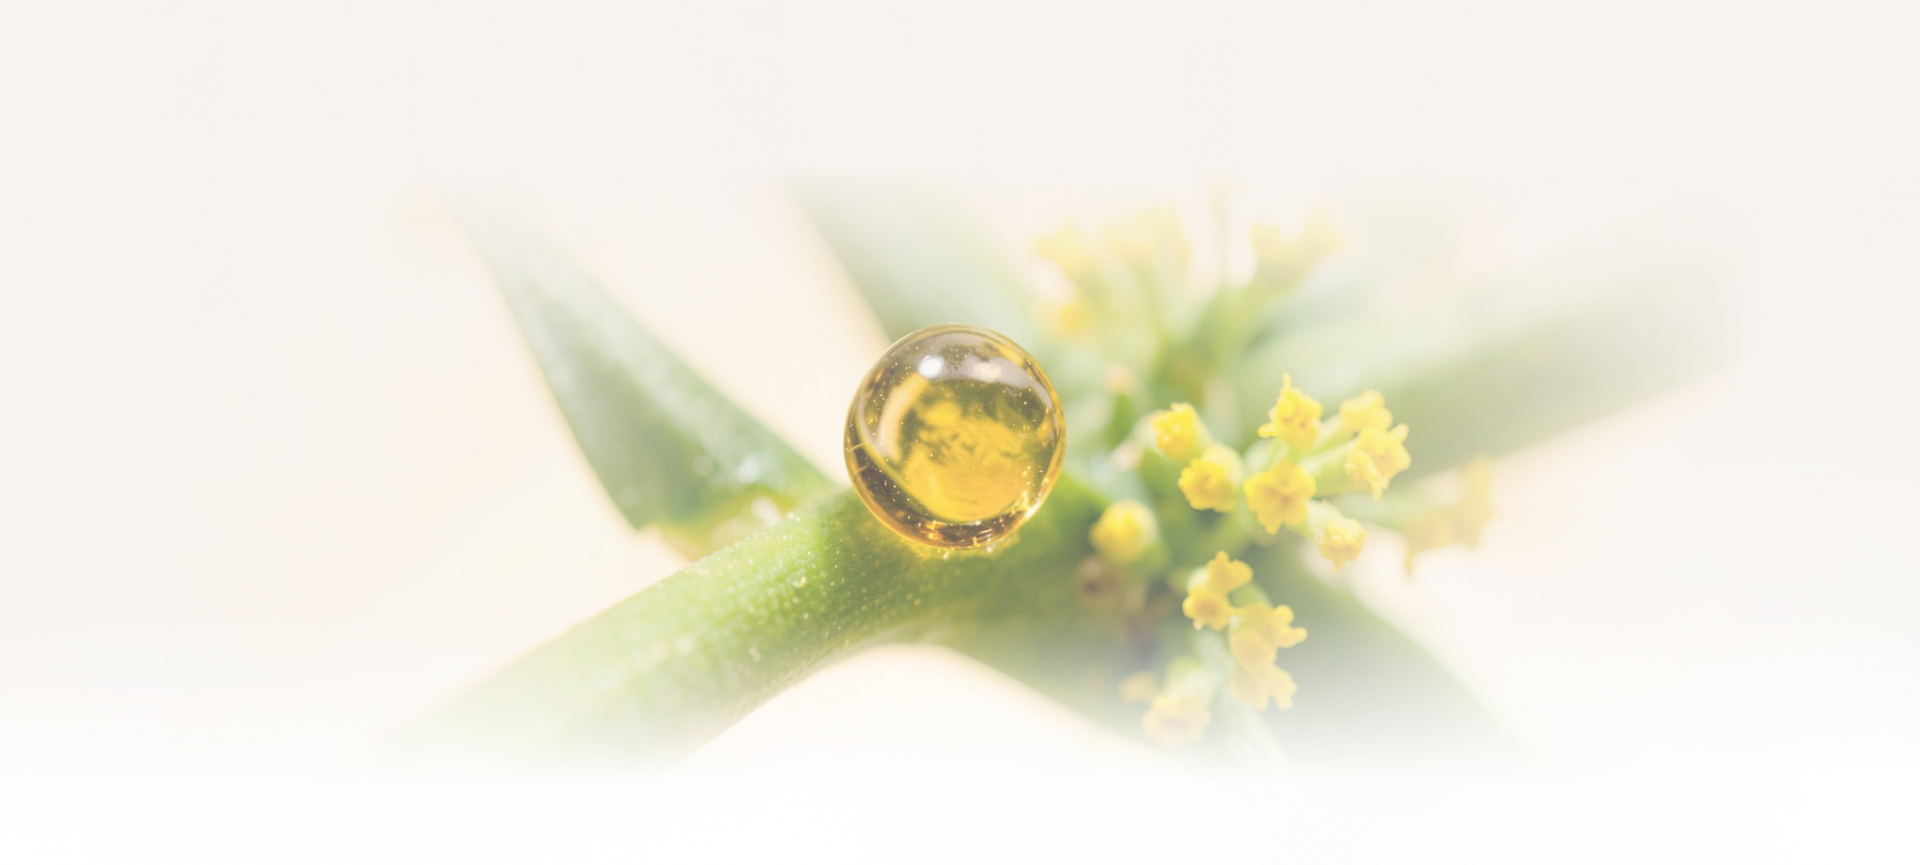
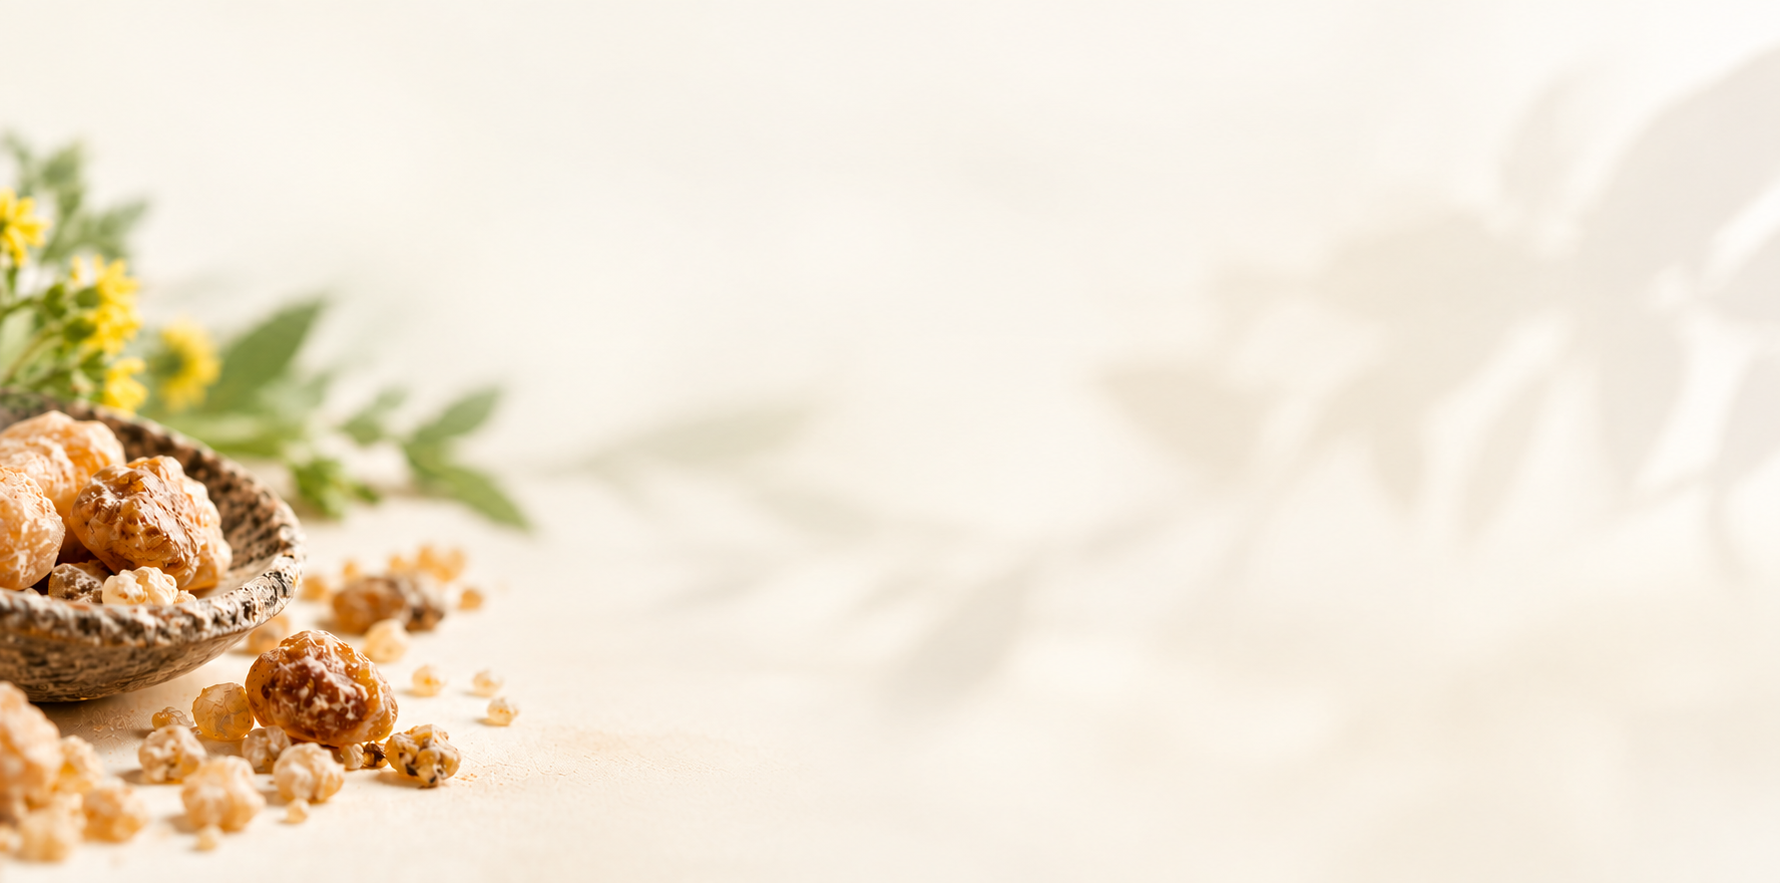
changed some text colors and the text itself

diff --git a/src/components/sections/trusted.tsx b/src/components/sections/trusted.tsx
@@ -118,22 +118,17 @@ export function Trusted() {
               Trusted by India&rsquo;s most respected food brands
             </p>
             <h2 className="mt-1 font-editorial font-extrabold text-[clamp(2rem,2.08vw,2.5rem)] uppercase leading-[1.325] tracking-[-0.01em] text-black">
-              <span className="lg:block lg:whitespace-nowrap">
-                The specialists behind
-              </span>{" "}
-              <span className="lg:block lg:whitespace-nowrap">
-                the Brands you Already
-              </span>{" "}
-              <span className="lg:block">Trust.</span>
+              <span className="lg:block lg:whitespace-nowrap">The specialists behind</span>{" "}
+              <span className="lg:block lg:whitespace-nowrap">the Brands you Already</span>{" "}
+              <span className="lg:block text-red-700 font-semibold text-5xl">Trust.</span>
             </h2>
           </Reveal>
 
           <Reveal className="lg:mt-[48px]" delay={0.08}>
             <p className="font-editorial text-[17px] capitalize leading-[30px] text-graphite">
-              When India&rsquo;s most respected food companies need hing, for
-              their signature blends, their ready-to-eat lines, their most
-              protected recipes, they come to Waghodia. Some relationships span
-              decades. All of them began with a single conversation.
+              When India&rsquo;s most respected food companies need hing, for their signature
+              blends, their ready-to-eat lines, their most protected recipes, they come to Waghodia.
+              Some relationships span decades. All of them began with a single conversation.
             </p>
           </Reveal>
         </div>
@@ -182,9 +177,7 @@ export function Trusted() {
                     own, so the two transforms compose instead of racing. */}
                 <div className="relative size-full rounded-full bg-white shadow-[0_15px_100px_rgba(0,0,0,0.08)] transition-transform duration-[250ms] ease-out pointer-fine:hover:scale-105">
                   {brand.plate ? (
-                    <span
-                      className={`${CENTRED} bg-[#ba341b] ${brand.plate}`}
-                    />
+                    <span className={`${CENTRED} bg-[#ba341b] ${brand.plate}`} />
                   ) : null}
                   <div className={`${CENTRED} ${brand.box}`}>
                     <Image

diff --git a/src/components/sections/research.tsx b/src/components/sections/research.tsx
@@ -84,7 +84,7 @@ export function Research() {
             </p>
             <h2 className="mt-1 font-editorial font-extrabold text-[clamp(2rem,2.08vw,2.5rem)] uppercase leading-[1.325] tracking-[-0.01em] text-black">
               <span className="lg:block">The only hing company</span>{" "}
-              <span className="lg:block">with its own Research</span>{" "}
+              <span className="lg:block">with its own</span>{" "}
               <span className="lg:block text-red-700">Research Centre.</span>
             </h2>
           </Reveal>
